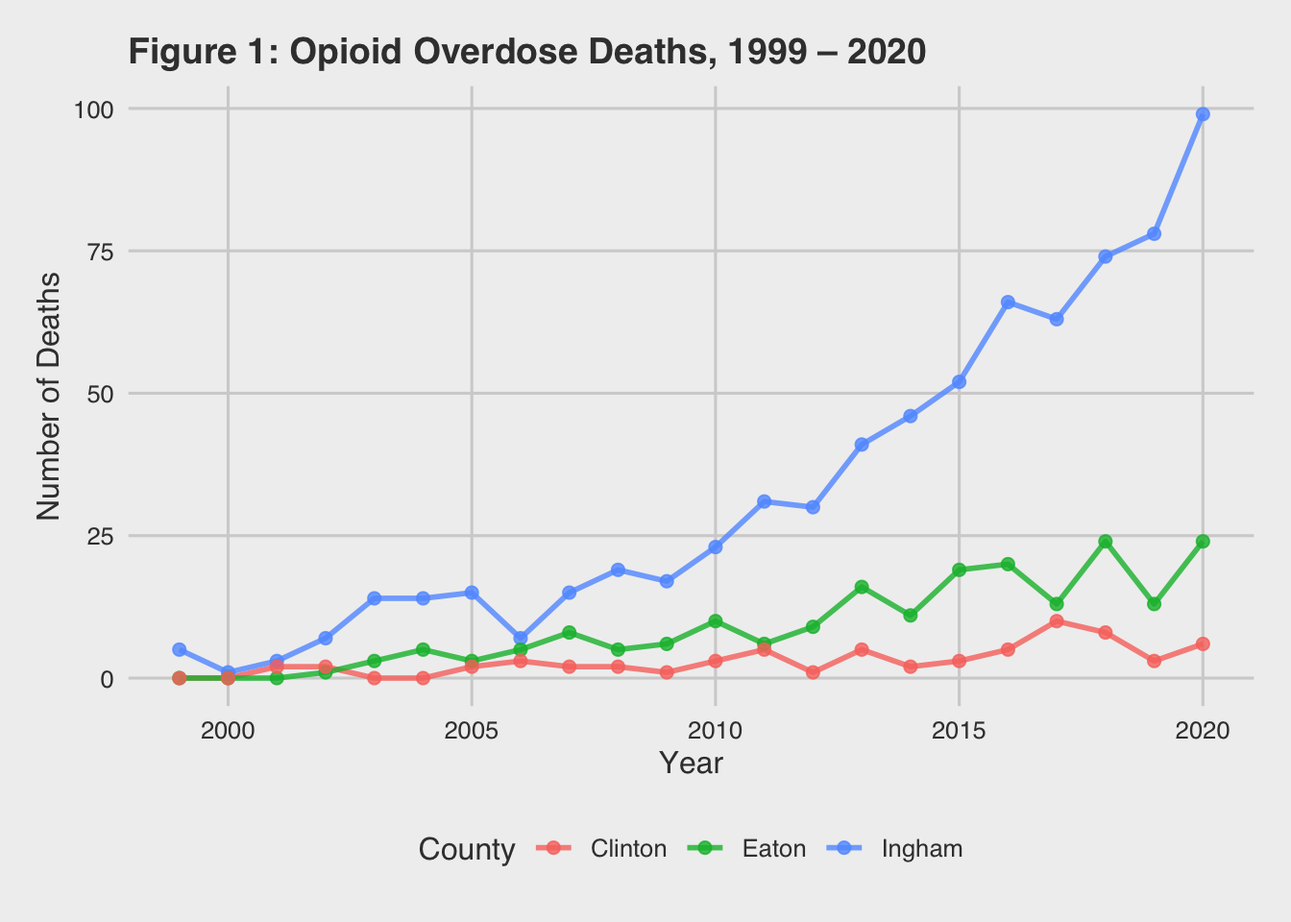
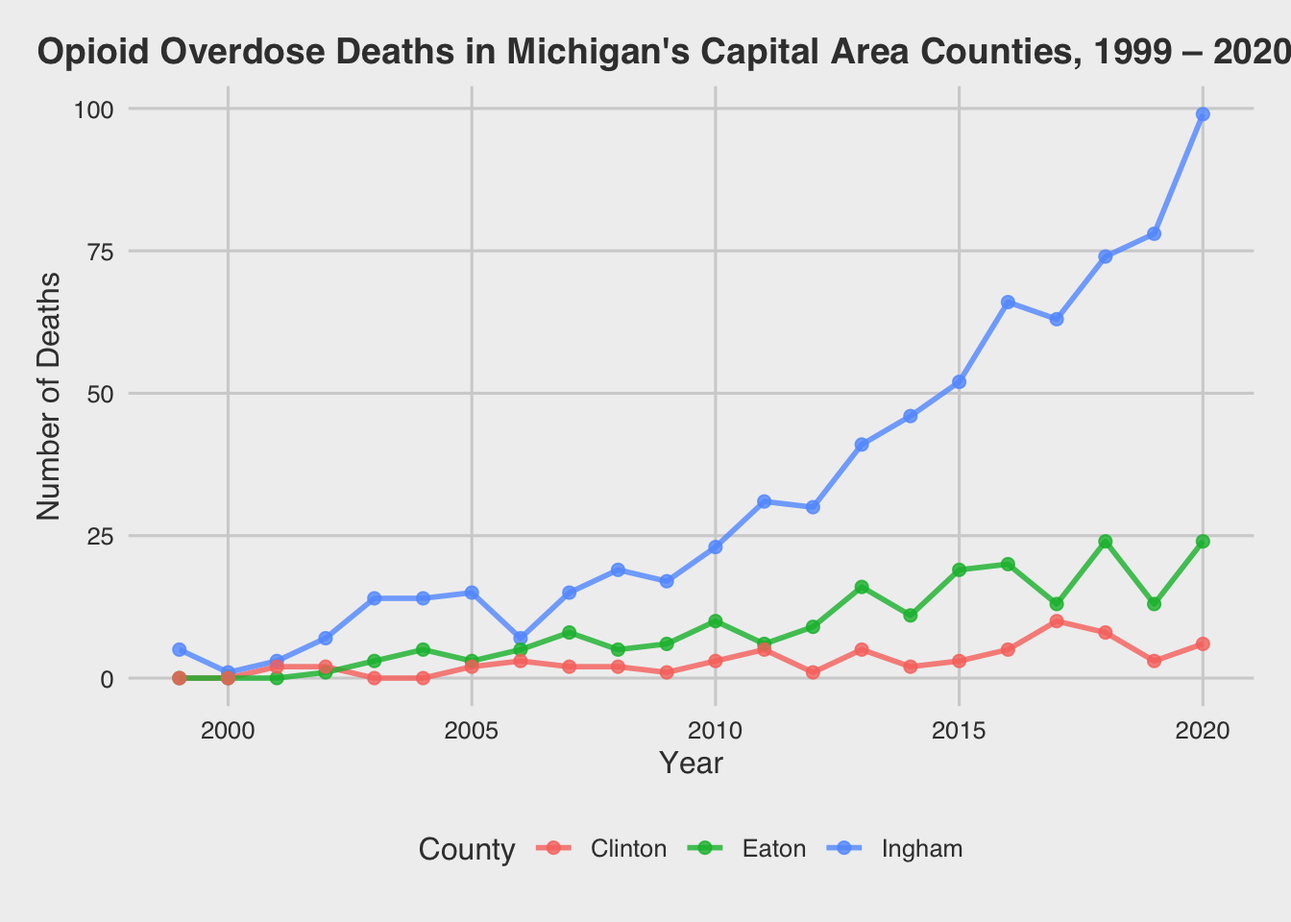
remove resume page

Changed region(s): [[0.0312, 0.0312, 1.0, 0.0938]]

diff --git a/_site/posts/opioid plotting practice/index.html b/_site/posts/opioid plotting practice/index.html
@@ -90,11 +90,8 @@ code span.wa { color: #60a0b0; font-weight: bold; font-style: italic; } /* Warni
 
 <script src="../../site_libs/quarto-nav/quarto-nav.js"></script>
 <script src="../../site_libs/quarto-nav/headroom.min.js"></script>
+<link href="../../cat96.png" rel="icon" type="image/png">
 <script src="../../site_libs/clipboard/clipboard.min.js"></script>
-<script src="../../site_libs/quarto-search/autocomplete.umd.js"></script>
-<script src="../../site_libs/quarto-search/fuse.min.js"></script>
-<script src="../../site_libs/quarto-search/quarto-search.js"></script>
-<meta name="quarto:offset" content="../../">
 <script src="../../site_libs/quarto-html/quarto.js"></script>
 <script src="../../site_libs/quarto-html/popper.min.js"></script>
 <script src="../../site_libs/quarto-html/tippy.umd.min.js"></script>
@@ -105,12 +102,6 @@ code span.wa { color: #60a0b0; font-weight: bold; font-style: italic; } /* Warni
 <link href="../../site_libs/bootstrap/bootstrap-icons.css" rel="stylesheet">
 <link href="../../site_libs/bootstrap/bootstrap.min.css" rel="stylesheet" id="quarto-bootstrap" data-mode="light">
 <script id="quarto-search-options" type="application/json">{
-  "location": "navbar",
-  "copy-button": false,
-  "collapse-after": 3,
-  "panel-placement": "end",
-  "type": "overlay",
-  "limit": 20,
   "language": {
     "search-no-results-text": "No results",
     "search-matching-documents-text": "matching documents",
@@ -143,6 +134,9 @@ code span.wa { color: #60a0b0; font-weight: bold; font-style: italic; } /* Warni
     <nav class="navbar navbar-expand-lg navbar-dark ">
       <div class="navbar-container container-fluid">
       <div class="navbar-brand-container">
+    <a href="../../index.html" class="navbar-brand navbar-brand-logo">
+    <img src="../../logo-cat.png" alt="" class="navbar-logo">
+    </a>
     <a class="navbar-brand" href="../../index.html">
     <span class="navbar-title">Brenden Smith</span>
     </a>
@@ -153,20 +147,15 @@ code span.wa { color: #60a0b0; font-weight: bold; font-style: italic; } /* Warni
           <div class="collapse navbar-collapse" id="navbarCollapse">
             <ul class="navbar-nav navbar-nav-scroll ms-auto">
   <li class="nav-item">
+    <a class="nav-link" href="../../index.html">About</a>
+  </li>  
+  <li class="nav-item">
+    <a class="nav-link" href="../../projects.html">Projects</a>
+  </li>  
+  <li class="nav-item">
     <a class="nav-link" href="../../blog.html">Blog</a>
   </li>  
-  <li class="nav-item compact">
-    <a class="nav-link" href="https://github.com/brendensm"><i class="bi bi-github" role="img">
-</i> 
- </a>
-  </li>  
-  <li class="nav-item compact">
-    <a class="nav-link" href="https://twitter.com/brendenmsmith"><i class="bi bi-twitter" role="img">
-</i> 
- </a>
-  </li>  
 </ul>
-              <div id="quarto-search" class="" title="Search"></div>
           </div> <!-- /navcollapse -->
       </div> <!-- /container-fluid -->
     </nav>
@@ -274,13 +263,13 @@ code span.wa { color: #60a0b0; font-weight: bold; font-style: italic; } /* Warni
 <p><img src="index_files/figure-html/unnamed-chunk-4-1.png" class="img-fluid" width="672"></p>
 </div>
 </div>
-<p>That looks a lot better! But we can do more. The lines look a bit skinny to me. I would like them to stand out more. It also might help to adjust the opacity of the lines. This can make points that cross over easier to read. To make these changes, we can specify <code>size</code> and <code>alpha</code> in <code>geom_line()</code> outside of the <code>aes()</code> argument.</p>
+<p>That looks a lot better! But we can do more. The lines look a bit skinny to me. I would like them to stand out more. It also might help to adjust the opacity of the lines. This can make points that cross over easier to read. To make these changes, we can specify <code>linewidth</code> and <code>alpha</code> in <code>geom_line()</code> outside of the <code>aes()</code> argument.</p>
 <p>I think it would be great to add points to our plot, too. Like the <code>geom_line()</code> layer, I want these to be large enough and overlap easily. I will pass through similar arguments in the <code>geom_point()</code> layer, also specifying the <code>color</code>.</p>
 <div class="cell">
 <div class="sourceCode cell-code" id="cb5"><pre class="sourceCode r code-with-copy"><code class="sourceCode r"><span id="cb5-1"><a href="#cb5-1" aria-hidden="true" tabindex="-1"></a>opdeaths <span class="sc">%&gt;%</span></span>
 <span id="cb5-2"><a href="#cb5-2" aria-hidden="true" tabindex="-1"></a>  <span class="fu">filter</span>(County <span class="sc">%in%</span> counties)  <span class="sc">%&gt;%</span></span>
 <span id="cb5-3"><a href="#cb5-3" aria-hidden="true" tabindex="-1"></a>  <span class="fu">ggplot</span>(<span class="fu">aes</span>(<span class="at">x =</span> Year, <span class="at">y =</span> <span class="st">`</span><span class="at">Opioids Overdose Deaths</span><span class="st">`</span>)) <span class="sc">+</span></span>
-<span id="cb5-4"><a href="#cb5-4" aria-hidden="true" tabindex="-1"></a>  <span class="fu">geom_line</span>(<span class="at">size =</span> <span class="dv">1</span>, <span class="at">alpha =</span> <span class="fl">0.8</span>, <span class="fu">aes</span>(<span class="at">color =</span> County)) <span class="sc">+</span></span>
+<span id="cb5-4"><a href="#cb5-4" aria-hidden="true" tabindex="-1"></a>  <span class="fu">geom_line</span>(<span class="at">linewidth =</span> <span class="dv">1</span>, <span class="at">alpha =</span> <span class="fl">0.8</span>, <span class="fu">aes</span>(<span class="at">color =</span> County)) <span class="sc">+</span></span>
 <span id="cb5-5"><a href="#cb5-5" aria-hidden="true" tabindex="-1"></a>  <span class="fu">geom_point</span>(<span class="at">size =</span> <span class="dv">2</span>, <span class="at">alpha =</span> <span class="fl">0.8</span>, <span class="fu">aes</span>(<span class="at">color =</span> County))</span></code><button title="Copy to Clipboard" class="code-copy-button"><i class="bi"></i></button></pre></div>
 <div class="cell-output-display">
 <p><img src="index_files/figure-html/unnamed-chunk-5-1.png" class="img-fluid" width="672"></p>
@@ -293,14 +282,15 @@ code span.wa { color: #60a0b0; font-weight: bold; font-style: italic; } /* Warni
 <div class="sourceCode cell-code" id="cb6"><pre class="sourceCode r code-with-copy"><code class="sourceCode r"><span id="cb6-1"><a href="#cb6-1" aria-hidden="true" tabindex="-1"></a>opdeaths <span class="sc">%&gt;%</span></span>
 <span id="cb6-2"><a href="#cb6-2" aria-hidden="true" tabindex="-1"></a>  <span class="fu">filter</span>(County <span class="sc">%in%</span> counties)  <span class="sc">%&gt;%</span></span>
 <span id="cb6-3"><a href="#cb6-3" aria-hidden="true" tabindex="-1"></a>  <span class="fu">ggplot</span>(<span class="fu">aes</span>(<span class="at">x =</span> Year, <span class="at">y =</span> <span class="st">`</span><span class="at">Opioids Overdose Deaths</span><span class="st">`</span>)) <span class="sc">+</span></span>
-<span id="cb6-4"><a href="#cb6-4" aria-hidden="true" tabindex="-1"></a>  <span class="fu">geom_line</span>(<span class="at">size =</span> <span class="dv">1</span>, <span class="at">alpha =</span> <span class="fl">0.8</span>, <span class="fu">aes</span>(<span class="at">color =</span> County)) <span class="sc">+</span></span>
+<span id="cb6-4"><a href="#cb6-4" aria-hidden="true" tabindex="-1"></a>  <span class="fu">geom_line</span>(<span class="at">linewidth =</span> <span class="dv">1</span>, <span class="at">alpha =</span> <span class="fl">0.8</span>, <span class="fu">aes</span>(<span class="at">color =</span> County)) <span class="sc">+</span></span>
 <span id="cb6-5"><a href="#cb6-5" aria-hidden="true" tabindex="-1"></a>  <span class="fu">geom_point</span>(<span class="at">size =</span> <span class="dv">2</span>, <span class="at">alpha =</span> <span class="fl">0.8</span>, <span class="fu">aes</span>(<span class="at">color =</span> County)) <span class="sc">+</span></span>
-<span id="cb6-6"><a href="#cb6-6" aria-hidden="true" tabindex="-1"></a>  <span class="fu">labs</span>(<span class="at">title =</span> <span class="st">"Figure 1: Opioid Overdose Deaths, 1999 – 2020"</span>,</span>
+<span id="cb6-6"><a href="#cb6-6" aria-hidden="true" tabindex="-1"></a>  <span class="fu">labs</span>(<span class="at">title =</span> <span class="st">"Opioid Overdose Deaths in Michigan's Capital Area Counties, 1999 – 2020"</span>,</span>
 <span id="cb6-7"><a href="#cb6-7" aria-hidden="true" tabindex="-1"></a>       <span class="at">x =</span> <span class="st">"Year"</span>,</span>
 <span id="cb6-8"><a href="#cb6-8" aria-hidden="true" tabindex="-1"></a>       <span class="at">y =</span> <span class="st">"Number of Deaths"</span>) <span class="sc">+</span></span>
 <span id="cb6-9"><a href="#cb6-9" aria-hidden="true" tabindex="-1"></a>  <span class="fu">theme_fivethirtyeight</span>() <span class="sc">+</span></span>
 <span id="cb6-10"><a href="#cb6-10" aria-hidden="true" tabindex="-1"></a>  <span class="fu">theme</span>(<span class="at">axis.title =</span> <span class="fu">element_text</span>(),</span>
-<span id="cb6-11"><a href="#cb6-11" aria-hidden="true" tabindex="-1"></a>        <span class="at">plot.title =</span> <span class="fu">element_text</span>(<span class="at">size =</span> <span class="dv">14</span>))</span></code><button title="Copy to Clipboard" class="code-copy-button"><i class="bi"></i></button></pre></div>
+<span id="cb6-11"><a href="#cb6-11" aria-hidden="true" tabindex="-1"></a>        <span class="at">plot.title =</span> <span class="fu">element_text</span>(<span class="at">size =</span> <span class="dv">14</span>),</span>
+<span id="cb6-12"><a href="#cb6-12" aria-hidden="true" tabindex="-1"></a>        <span class="at">plot.title.position =</span> <span class="st">"plot"</span>)</span></code><button title="Copy to Clipboard" class="code-copy-button"><i class="bi"></i></button></pre></div>
 <div class="cell-output-display">
 <p><img src="index_files/figure-html/unnamed-chunk-6-1.png" class="img-fluid" width="672"></p>
 </div>
@@ -314,19 +304,20 @@ code span.wa { color: #60a0b0; font-weight: bold; font-style: italic; } /* Warni
 <div class="sourceCode cell-code" id="cb7"><pre class="sourceCode r code-with-copy"><code class="sourceCode r"><span id="cb7-1"><a href="#cb7-1" aria-hidden="true" tabindex="-1"></a>p1 <span class="ot">&lt;-</span> opdeaths <span class="sc">%&gt;%</span></span>
 <span id="cb7-2"><a href="#cb7-2" aria-hidden="true" tabindex="-1"></a>  <span class="fu">filter</span>(County <span class="sc">%in%</span> counties)  <span class="sc">%&gt;%</span></span>
 <span id="cb7-3"><a href="#cb7-3" aria-hidden="true" tabindex="-1"></a>  <span class="fu">ggplot</span>(<span class="fu">aes</span>(<span class="at">x =</span> Year, <span class="at">y =</span> <span class="st">`</span><span class="at">Opioids Overdose Deaths</span><span class="st">`</span>)) <span class="sc">+</span></span>
-<span id="cb7-4"><a href="#cb7-4" aria-hidden="true" tabindex="-1"></a>  <span class="fu">geom_line</span>(<span class="at">size =</span> <span class="dv">1</span>, <span class="at">alpha =</span> <span class="fl">0.8</span>, <span class="fu">aes</span>(<span class="at">color =</span> County)) <span class="sc">+</span></span>
+<span id="cb7-4"><a href="#cb7-4" aria-hidden="true" tabindex="-1"></a>  <span class="fu">geom_line</span>(<span class="at">linewidth =</span> <span class="dv">1</span>, <span class="at">alpha =</span> <span class="fl">0.8</span>, <span class="fu">aes</span>(<span class="at">color =</span> County)) <span class="sc">+</span></span>
 <span id="cb7-5"><a href="#cb7-5" aria-hidden="true" tabindex="-1"></a>  <span class="fu">geom_point</span>(<span class="at">size =</span> <span class="dv">2</span>, <span class="at">alpha =</span> <span class="fl">0.8</span>, <span class="fu">aes</span>(<span class="at">color =</span> County)) <span class="sc">+</span></span>
-<span id="cb7-6"><a href="#cb7-6" aria-hidden="true" tabindex="-1"></a>  <span class="fu">labs</span>(<span class="at">title =</span> <span class="st">"Figure 1: Opioid Overdose Deaths, 1999 – 2020"</span>,</span>
+<span id="cb7-6"><a href="#cb7-6" aria-hidden="true" tabindex="-1"></a>  <span class="fu">labs</span>(<span class="at">title =</span> <span class="st">"Opioid Overdose Deaths in Michigan's Capital Area Counties, 1999 – 2020"</span>,</span>
 <span id="cb7-7"><a href="#cb7-7" aria-hidden="true" tabindex="-1"></a>       <span class="at">x =</span> <span class="st">"Year"</span>,</span>
 <span id="cb7-8"><a href="#cb7-8" aria-hidden="true" tabindex="-1"></a>       <span class="at">y =</span> <span class="st">"Number of Deaths"</span>) <span class="sc">+</span></span>
 <span id="cb7-9"><a href="#cb7-9" aria-hidden="true" tabindex="-1"></a>  <span class="fu">theme_fivethirtyeight</span>() <span class="sc">+</span></span>
 <span id="cb7-10"><a href="#cb7-10" aria-hidden="true" tabindex="-1"></a>  <span class="fu">theme</span>(<span class="at">axis.title =</span> <span class="fu">element_text</span>(),</span>
-<span id="cb7-11"><a href="#cb7-11" aria-hidden="true" tabindex="-1"></a>        <span class="at">plot.title =</span> <span class="fu">element_text</span>(<span class="at">size =</span> <span class="dv">14</span>))</span>
-<span id="cb7-12"><a href="#cb7-12" aria-hidden="true" tabindex="-1"></a></span>
-<span id="cb7-13"><a href="#cb7-13" aria-hidden="true" tabindex="-1"></a><span class="fu">ggplotly</span>(p1)</span></code><button title="Copy to Clipboard" class="code-copy-button"><i class="bi"></i></button></pre></div>
+<span id="cb7-11"><a href="#cb7-11" aria-hidden="true" tabindex="-1"></a>        <span class="at">plot.title =</span> <span class="fu">element_text</span>(<span class="at">size =</span> <span class="dv">14</span>),</span>
+<span id="cb7-12"><a href="#cb7-12" aria-hidden="true" tabindex="-1"></a>        <span class="at">plot.title.position =</span> <span class="st">"plot"</span>)</span>
+<span id="cb7-13"><a href="#cb7-13" aria-hidden="true" tabindex="-1"></a></span>
+<span id="cb7-14"><a href="#cb7-14" aria-hidden="true" tabindex="-1"></a><span class="fu">ggplotly</span>(p1)</span></code><button title="Copy to Clipboard" class="code-copy-button"><i class="bi"></i></button></pre></div>
 <div class="cell-output-display">
-<div id="htmlwidget-67dd60bb1c09bb6f7d05" style="width:100%;height:464px;" class="plotly html-widget"></div>
-<script type="application/json" data-for="htmlwidget-67dd60bb1c09bb6f7d05">{"x":{"data":[{"x":[1999,2000,2001,2002,2003,2004,2005,2006,2007,2008,2009,2010,2011,2012,2013,2014,2015,2016,2017,2018,2019,2020],"y":[0,0,2,2,0,0,2,3,2,2,1,3,5,1,5,2,3,5,10,8,3,6],"text":["Year: 1999<br />Opioids Overdose Deaths:  0<br />County: Clinton","Year: 2000<br />Opioids Overdose Deaths:  0<br />County: Clinton","Year: 2001<br />Opioids Overdose Deaths:  2<br />County: Clinton","Year: 2002<br />Opioids Overdose Deaths:  2<br />County: Clinton","Year: 2003<br />Opioids Overdose Deaths:  0<br />County: Clinton","Year: 2004<br />Opioids Overdose Deaths:  0<br />County: Clinton","Year: 2005<br />Opioids Overdose Deaths:  2<br />County: Clinton","Year: 2006<br />Opioids Overdose Deaths:  3<br />County: Clinton","Year: 2007<br />Opioids Overdose Deaths:  2<br />County: Clinton","Year: 2008<br />Opioids Overdose Deaths:  2<br />County: Clinton","Year: 2009<br />Opioids Overdose Deaths:  1<br />County: Clinton","Year: 2010<br />Opioids Overdose Deaths:  3<br />County: Clinton","Year: 2011<br />Opioids Overdose Deaths:  5<br />County: Clinton","Year: 2012<br />Opioids Overdose Deaths:  1<br />County: Clinton","Year: 2013<br />Opioids Overdose Deaths:  5<br />County: Clinton","Year: 2014<br />Opioids Overdose Deaths:  2<br />County: Clinton","Year: 2015<br />Opioids Overdose Deaths:  3<br />County: Clinton","Year: 2016<br />Opioids Overdose Deaths:  5<br />County: Clinton","Year: 2017<br />Opioids Overdose Deaths: 10<br />County: Clinton","Year: 2018<br />Opioids Overdose Deaths:  8<br />County: Clinton","Year: 2019<br />Opioids Overdose Deaths:  3<br />County: Clinton","Year: 2020<br />Opioids Overdose Deaths:  6<br />County: Clinton"],"type":"scatter","mode":"lines+markers","line":{"width":3.77952755905512,"color":"rgba(248,118,109,0.8)","dash":"solid"},"hoveron":"points","name":"Clinton","legendgroup":"Clinton","showlegend":true,"xaxis":"x","yaxis":"y","hoverinfo":"text","marker":{"autocolorscale":false,"color":"rgba(248,118,109,1)","opacity":0.8,"size":7.55905511811024,"symbol":"circle","line":{"width":1.88976377952756,"color":"rgba(248,118,109,1)"}},"frame":null},{"x":[1999,2000,2001,2002,2003,2004,2005,2006,2007,2008,2009,2010,2011,2012,2013,2014,2015,2016,2017,2018,2019,2020],"y":[0,0,0,1,3,5,3,5,8,5,6,10,6,9,16,11,19,20,13,24,13,24],"text":["Year: 1999<br />Opioids Overdose Deaths:  0<br />County: Eaton","Year: 2000<br />Opioids Overdose Deaths:  0<br />County: Eaton","Year: 2001<br />Opioids Overdose Deaths:  0<br />County: Eaton","Year: 2002<br />Opioids Overdose Deaths:  1<br />County: Eaton","Year: 2003<br />Opioids Overdose Deaths:  3<br />County: Eaton","Year: 2004<br />Opioids Overdose Deaths:  5<br />County: Eaton","Year: 2005<br />Opioids Overdose Deaths:  3<br />County: Eaton","Year: 2006<br />Opioids Overdose Deaths:  5<br />County: Eaton","Year: 2007<br />Opioids Overdose Deaths:  8<br />County: Eaton","Year: 2008<br />Opioids Overdose Deaths:  5<br />County: Eaton","Year: 2009<br />Opioids Overdose Deaths:  6<br />County: Eaton","Year: 2010<br />Opioids Overdose Deaths: 10<br />County: Eaton","Year: 2011<br />Opioids Overdose Deaths:  6<br />County: Eaton","Year: 2012<br />Opioids Overdose Deaths:  9<br />County: Eaton","Year: 2013<br />Opioids Overdose Deaths: 16<br />County: Eaton","Year: 2014<br />Opioids Overdose Deaths: 11<br />County: Eaton","Year: 2015<br />Opioids Overdose Deaths: 19<br />County: Eaton","Year: 2016<br />Opioids Overdose Deaths: 20<br />County: Eaton","Year: 2017<br />Opioids Overdose Deaths: 13<br />County: Eaton","Year: 2018<br />Opioids Overdose Deaths: 24<br />County: Eaton","Year: 2019<br />Opioids Overdose Deaths: 13<br />County: Eaton","Year: 2020<br />Opioids Overdose Deaths: 24<br />County: Eaton"],"type":"scatter","mode":"lines+markers","line":{"width":3.77952755905512,"color":"rgba(0,186,56,0.8)","dash":"solid"},"hoveron":"points","name":"Eaton","legendgroup":"Eaton","showlegend":true,"xaxis":"x","yaxis":"y","hoverinfo":"text","marker":{"autocolorscale":false,"color":"rgba(0,186,56,1)","opacity":0.8,"size":7.55905511811024,"symbol":"circle","line":{"width":1.88976377952756,"color":"rgba(0,186,56,1)"}},"frame":null},{"x":[1999,2000,2001,2002,2003,2004,2005,2006,2007,2008,2009,2010,2011,2012,2013,2014,2015,2016,2017,2018,2019,2020],"y":[5,1,3,7,14,14,15,7,15,19,17,23,31,30,41,46,52,66,63,74,78,99],"text":["Year: 1999<br />Opioids Overdose Deaths:  5<br />County: Ingham","Year: 2000<br />Opioids Overdose Deaths:  1<br />County: Ingham","Year: 2001<br />Opioids Overdose Deaths:  3<br />County: Ingham","Year: 2002<br />Opioids Overdose Deaths:  7<br />County: Ingham","Year: 2003<br />Opioids Overdose Deaths: 14<br />County: Ingham","Year: 2004<br />Opioids Overdose Deaths: 14<br />County: Ingham","Year: 2005<br />Opioids Overdose Deaths: 15<br />County: Ingham","Year: 2006<br />Opioids Overdose Deaths:  7<br />County: Ingham","Year: 2007<br />Opioids Overdose Deaths: 15<br />County: Ingham","Year: 2008<br />Opioids Overdose Deaths: 19<br />County: Ingham","Year: 2009<br />Opioids Overdose Deaths: 17<br />County: Ingham","Year: 2010<br />Opioids Overdose Deaths: 23<br />County: Ingham","Year: 2011<br />Opioids Overdose Deaths: 31<br />County: Ingham","Year: 2012<br />Opioids Overdose Deaths: 30<br />County: Ingham","Year: 2013<br />Opioids Overdose Deaths: 41<br />County: Ingham","Year: 2014<br />Opioids Overdose Deaths: 46<br />County: Ingham","Year: 2015<br />Opioids Overdose Deaths: 52<br />County: Ingham","Year: 2016<br />Opioids Overdose Deaths: 66<br />County: Ingham","Year: 2017<br />Opioids Overdose Deaths: 63<br />County: Ingham","Year: 2018<br />Opioids Overdose Deaths: 74<br />County: Ingham","Year: 2019<br />Opioids Overdose Deaths: 78<br />County: Ingham","Year: 2020<br />Opioids Overdose Deaths: 99<br />County: Ingham"],"type":"scatter","mode":"lines+markers","line":{"width":3.77952755905512,"color":"rgba(97,156,255,0.8)","dash":"solid"},"hoveron":"points","name":"Ingham","legendgroup":"Ingham","showlegend":true,"xaxis":"x","yaxis":"y","hoverinfo":"text","marker":{"autocolorscale":false,"color":"rgba(97,156,255,1)","opacity":0.8,"size":7.55905511811024,"symbol":"circle","line":{"width":1.88976377952756,"color":"rgba(97,156,255,1)"}},"frame":null}],"layout":{"margin":{"t":53.7969281859693,"r":19.2,"b":51.8774595267746,"l":58.2535491905355},"plot_bgcolor":"rgba(240,240,240,1)","paper_bgcolor":"rgba(240,240,240,1)","font":{"color":"rgba(60,60,60,1)","family":"sans","size":15.9402241594022},"title":{"text":"<b> Figure 1: Opioid Overdose Deaths, 1999 – 2020 <\/b>","font":{"color":"rgba(60,60,60,1)","family":"sans","size":18.5969281859693},"x":0,"xref":"paper"},"xaxis":{"domain":[0,1],"automargin":true,"type":"linear","autorange":false,"range":[1997.95,2021.05],"tickmode":"array","ticktext":["2000","2005","2010","2015","2020"],"tickvals":[2000,2005,2010,2015,2020],"categoryorder":"array","categoryarray":["2000","2005","2010","2015","2020"],"nticks":null,"ticks":"","tickcolor":null,"ticklen":3.98505603985056,"tickwidth":0,"showticklabels":true,"tickfont":{"color":"rgba(60,60,60,1)","family":"sans","size":12.7521793275218},"tickangle":-0,"showline":false,"linecolor":null,"linewidth":0,"showgrid":true,"gridcolor":"rgba(210,210,210,1)","gridwidth":0.724555643609193,"zeroline":false,"anchor":"y","title":{"text":"Year","font":{"color":"rgba(60,60,60,1)","family":"sans","size":15.9402241594022}},"hoverformat":".2f"},"yaxis":{"domain":[0,1],"automargin":true,"type":"linear","autorange":false,"range":[-4.95,103.95],"tickmode":"array","ticktext":["0","25","50","75","100"],"tickvals":[0,25,50,75,100],"categoryorder":"array","categoryarray":["0","25","50","75","100"],"nticks":null,"ticks":"","tickcolor":null,"ticklen":3.98505603985056,"tickwidth":0,"showticklabels":true,"tickfont":{"color":"rgba(60,60,60,1)","family":"sans","size":12.7521793275218},"tickangle":-0,"showline":false,"linecolor":null,"linewidth":0,"showgrid":true,"gridcolor":"rgba(210,210,210,1)","gridwidth":0.724555643609193,"zeroline":false,"anchor":"x","title":{"text":"Number of Deaths","font":{"color":"rgba(60,60,60,1)","family":"sans","size":15.9402241594022}},"hoverformat":".2f"},"shapes":[{"type":"rect","fillcolor":"transparent","line":{"color":"transparent","width":0.724555643609193,"linetype":"none"},"yref":"paper","xref":"paper","x0":0,"x1":1,"y0":0,"y1":1}],"showlegend":true,"legend":{"bgcolor":"rgba(240,240,240,1)","bordercolor":"transparent","borderwidth":2.06156048675734,"font":{"color":"rgba(60,60,60,1)","family":"sans","size":12.7521793275218},"title":{"text":"County","font":{"color":"rgba(60,60,60,1)","family":"sans","size":15.9402241594022}}},"hovermode":"closest","barmode":"relative"},"config":{"doubleClick":"reset","modeBarButtonsToAdd":["hoverclosest","hovercompare"],"showSendToCloud":false},"source":"A","attrs":{"42e3663857e8":{"x":{},"y":{},"colour":{},"type":"scatter"},"42e37d1374c5":{"x":{},"y":{},"colour":{}}},"cur_data":"42e3663857e8","visdat":{"42e3663857e8":["function (y) ","x"],"42e37d1374c5":["function (y) ","x"]},"highlight":{"on":"plotly_click","persistent":false,"dynamic":false,"selectize":false,"opacityDim":0.2,"selected":{"opacity":1},"debounce":0},"shinyEvents":["plotly_hover","plotly_click","plotly_selected","plotly_relayout","plotly_brushed","plotly_brushing","plotly_clickannotation","plotly_doubleclick","plotly_deselect","plotly_afterplot","plotly_sunburstclick"],"base_url":"https://plot.ly"},"evals":[],"jsHooks":[]}</script>
+<div id="htmlwidget-161fd81e82e4ffd3d647" style="width:100%;height:464px;" class="plotly html-widget"></div>
+<script type="application/json" data-for="htmlwidget-161fd81e82e4ffd3d647">{"x":{"data":[{"x":[1999,2000,2001,2002,2003,2004,2005,2006,2007,2008,2009,2010,2011,2012,2013,2014,2015,2016,2017,2018,2019,2020],"y":[0,0,2,2,0,0,2,3,2,2,1,3,5,1,5,2,3,5,10,8,3,6],"text":["Year: 1999<br />Opioids Overdose Deaths:  0<br />County: Clinton","Year: 2000<br />Opioids Overdose Deaths:  0<br />County: Clinton","Year: 2001<br />Opioids Overdose Deaths:  2<br />County: Clinton","Year: 2002<br />Opioids Overdose Deaths:  2<br />County: Clinton","Year: 2003<br />Opioids Overdose Deaths:  0<br />County: Clinton","Year: 2004<br />Opioids Overdose Deaths:  0<br />County: Clinton","Year: 2005<br />Opioids Overdose Deaths:  2<br />County: Clinton","Year: 2006<br />Opioids Overdose Deaths:  3<br />County: Clinton","Year: 2007<br />Opioids Overdose Deaths:  2<br />County: Clinton","Year: 2008<br />Opioids Overdose Deaths:  2<br />County: Clinton","Year: 2009<br />Opioids Overdose Deaths:  1<br />County: Clinton","Year: 2010<br />Opioids Overdose Deaths:  3<br />County: Clinton","Year: 2011<br />Opioids Overdose Deaths:  5<br />County: Clinton","Year: 2012<br />Opioids Overdose Deaths:  1<br />County: Clinton","Year: 2013<br />Opioids Overdose Deaths:  5<br />County: Clinton","Year: 2014<br />Opioids Overdose Deaths:  2<br />County: Clinton","Year: 2015<br />Opioids Overdose Deaths:  3<br />County: Clinton","Year: 2016<br />Opioids Overdose Deaths:  5<br />County: Clinton","Year: 2017<br />Opioids Overdose Deaths: 10<br />County: Clinton","Year: 2018<br />Opioids Overdose Deaths:  8<br />County: Clinton","Year: 2019<br />Opioids Overdose Deaths:  3<br />County: Clinton","Year: 2020<br />Opioids Overdose Deaths:  6<br />County: Clinton"],"type":"scatter","mode":"lines+markers","line":{"width":null,"color":"rgba(248,118,109,0.8)","dash":"solid"},"hoveron":"points","name":"Clinton","legendgroup":"Clinton","showlegend":true,"xaxis":"x","yaxis":"y","hoverinfo":"text","marker":{"autocolorscale":false,"color":"rgba(248,118,109,1)","opacity":0.8,"size":7.55905511811024,"symbol":"circle","line":{"width":1.88976377952756,"color":"rgba(248,118,109,1)"}},"frame":null},{"x":[1999,2000,2001,2002,2003,2004,2005,2006,2007,2008,2009,2010,2011,2012,2013,2014,2015,2016,2017,2018,2019,2020],"y":[0,0,0,1,3,5,3,5,8,5,6,10,6,9,16,11,19,20,13,24,13,24],"text":["Year: 1999<br />Opioids Overdose Deaths:  0<br />County: Eaton","Year: 2000<br />Opioids Overdose Deaths:  0<br />County: Eaton","Year: 2001<br />Opioids Overdose Deaths:  0<br />County: Eaton","Year: 2002<br />Opioids Overdose Deaths:  1<br />County: Eaton","Year: 2003<br />Opioids Overdose Deaths:  3<br />County: Eaton","Year: 2004<br />Opioids Overdose Deaths:  5<br />County: Eaton","Year: 2005<br />Opioids Overdose Deaths:  3<br />County: Eaton","Year: 2006<br />Opioids Overdose Deaths:  5<br />County: Eaton","Year: 2007<br />Opioids Overdose Deaths:  8<br />County: Eaton","Year: 2008<br />Opioids Overdose Deaths:  5<br />County: Eaton","Year: 2009<br />Opioids Overdose Deaths:  6<br />County: Eaton","Year: 2010<br />Opioids Overdose Deaths: 10<br />County: Eaton","Year: 2011<br />Opioids Overdose Deaths:  6<br />County: Eaton","Year: 2012<br />Opioids Overdose Deaths:  9<br />County: Eaton","Year: 2013<br />Opioids Overdose Deaths: 16<br />County: Eaton","Year: 2014<br />Opioids Overdose Deaths: 11<br />County: Eaton","Year: 2015<br />Opioids Overdose Deaths: 19<br />County: Eaton","Year: 2016<br />Opioids Overdose Deaths: 20<br />County: Eaton","Year: 2017<br />Opioids Overdose Deaths: 13<br />County: Eaton","Year: 2018<br />Opioids Overdose Deaths: 24<br />County: Eaton","Year: 2019<br />Opioids Overdose Deaths: 13<br />County: Eaton","Year: 2020<br />Opioids Overdose Deaths: 24<br />County: Eaton"],"type":"scatter","mode":"lines+markers","line":{"width":null,"color":"rgba(0,186,56,0.8)","dash":"solid"},"hoveron":"points","name":"Eaton","legendgroup":"Eaton","showlegend":true,"xaxis":"x","yaxis":"y","hoverinfo":"text","marker":{"autocolorscale":false,"color":"rgba(0,186,56,1)","opacity":0.8,"size":7.55905511811024,"symbol":"circle","line":{"width":1.88976377952756,"color":"rgba(0,186,56,1)"}},"frame":null},{"x":[1999,2000,2001,2002,2003,2004,2005,2006,2007,2008,2009,2010,2011,2012,2013,2014,2015,2016,2017,2018,2019,2020],"y":[5,1,3,7,14,14,15,7,15,19,17,23,31,30,41,46,52,66,63,74,78,99],"text":["Year: 1999<br />Opioids Overdose Deaths:  5<br />County: Ingham","Year: 2000<br />Opioids Overdose Deaths:  1<br />County: Ingham","Year: 2001<br />Opioids Overdose Deaths:  3<br />County: Ingham","Year: 2002<br />Opioids Overdose Deaths:  7<br />County: Ingham","Year: 2003<br />Opioids Overdose Deaths: 14<br />County: Ingham","Year: 2004<br />Opioids Overdose Deaths: 14<br />County: Ingham","Year: 2005<br />Opioids Overdose Deaths: 15<br />County: Ingham","Year: 2006<br />Opioids Overdose Deaths:  7<br />County: Ingham","Year: 2007<br />Opioids Overdose Deaths: 15<br />County: Ingham","Year: 2008<br />Opioids Overdose Deaths: 19<br />County: Ingham","Year: 2009<br />Opioids Overdose Deaths: 17<br />County: Ingham","Year: 2010<br />Opioids Overdose Deaths: 23<br />County: Ingham","Year: 2011<br />Opioids Overdose Deaths: 31<br />County: Ingham","Year: 2012<br />Opioids Overdose Deaths: 30<br />County: Ingham","Year: 2013<br />Opioids Overdose Deaths: 41<br />County: Ingham","Year: 2014<br />Opioids Overdose Deaths: 46<br />County: Ingham","Year: 2015<br />Opioids Overdose Deaths: 52<br />County: Ingham","Year: 2016<br />Opioids Overdose Deaths: 66<br />County: Ingham","Year: 2017<br />Opioids Overdose Deaths: 63<br />County: Ingham","Year: 2018<br />Opioids Overdose Deaths: 74<br />County: Ingham","Year: 2019<br />Opioids Overdose Deaths: 78<br />County: Ingham","Year: 2020<br />Opioids Overdose Deaths: 99<br />County: Ingham"],"type":"scatter","mode":"lines+markers","line":{"width":null,"color":"rgba(97,156,255,0.8)","dash":"solid"},"hoveron":"points","name":"Ingham","legendgroup":"Ingham","showlegend":true,"xaxis":"x","yaxis":"y","hoverinfo":"text","marker":{"autocolorscale":false,"color":"rgba(97,156,255,1)","opacity":0.8,"size":7.55905511811024,"symbol":"circle","line":{"width":1.88976377952756,"color":"rgba(97,156,255,1)"}},"frame":null}],"layout":{"margin":{"t":53.7969281859693,"r":19.2,"b":51.8774595267746,"l":58.2535491905355},"plot_bgcolor":"rgba(240,240,240,1)","paper_bgcolor":"rgba(240,240,240,1)","font":{"color":"rgba(60,60,60,1)","family":"sans","size":15.9402241594022},"title":{"text":"<b> Opioid Overdose Deaths in Michigan's Capital Area Counties, 1999 – 2020 <\/b>","font":{"color":"rgba(60,60,60,1)","family":"sans","size":18.5969281859693},"x":0,"xref":"paper"},"xaxis":{"domain":[0,1],"automargin":true,"type":"linear","autorange":false,"range":[1997.95,2021.05],"tickmode":"array","ticktext":["2000","2005","2010","2015","2020"],"tickvals":[2000,2005,2010,2015,2020],"categoryorder":"array","categoryarray":["2000","2005","2010","2015","2020"],"nticks":null,"ticks":"","tickcolor":null,"ticklen":3.98505603985056,"tickwidth":0,"showticklabels":true,"tickfont":{"color":"rgba(60,60,60,1)","family":"sans","size":12.7521793275218},"tickangle":-0,"showline":false,"linecolor":null,"linewidth":0,"showgrid":true,"gridcolor":"rgba(210,210,210,1)","gridwidth":0,"zeroline":false,"anchor":"y","title":{"text":"Year","font":{"color":"rgba(60,60,60,1)","family":"sans","size":15.9402241594022}},"hoverformat":".2f"},"yaxis":{"domain":[0,1],"automargin":true,"type":"linear","autorange":false,"range":[-4.95,103.95],"tickmode":"array","ticktext":["0","25","50","75","100"],"tickvals":[0,25,50,75,100],"categoryorder":"array","categoryarray":["0","25","50","75","100"],"nticks":null,"ticks":"","tickcolor":null,"ticklen":3.98505603985056,"tickwidth":0,"showticklabels":true,"tickfont":{"color":"rgba(60,60,60,1)","family":"sans","size":12.7521793275218},"tickangle":-0,"showline":false,"linecolor":null,"linewidth":0,"showgrid":true,"gridcolor":"rgba(210,210,210,1)","gridwidth":0,"zeroline":false,"anchor":"x","title":{"text":"Number of Deaths","font":{"color":"rgba(60,60,60,1)","family":"sans","size":15.9402241594022}},"hoverformat":".2f"},"shapes":[{"type":"rect","fillcolor":"transparent","line":{"color":"transparent","width":0,"linetype":"none"},"yref":"paper","xref":"paper","x0":0,"x1":1,"y0":0,"y1":1}],"showlegend":true,"legend":{"bgcolor":"rgba(240,240,240,1)","bordercolor":"transparent","borderwidth":0,"font":{"color":"rgba(60,60,60,1)","family":"sans","size":12.7521793275218},"title":{"text":"County","font":{"color":"rgba(60,60,60,1)","family":"sans","size":15.9402241594022}}},"hovermode":"closest","barmode":"relative"},"config":{"doubleClick":"reset","modeBarButtonsToAdd":["hoverclosest","hovercompare"],"showSendToCloud":false},"source":"A","attrs":{"346f63de85a4":{"x":{},"y":{},"colour":{},"type":"scatter"},"346f26180535":{"x":{},"y":{},"colour":{}}},"cur_data":"346f63de85a4","visdat":{"346f63de85a4":["function (y) ","x"],"346f26180535":["function (y) ","x"]},"highlight":{"on":"plotly_click","persistent":false,"dynamic":false,"selectize":false,"opacityDim":0.2,"selected":{"opacity":1},"debounce":0},"shinyEvents":["plotly_hover","plotly_click","plotly_selected","plotly_relayout","plotly_brushed","plotly_brushing","plotly_clickannotation","plotly_doubleclick","plotly_deselect","plotly_afterplot","plotly_sunburstclick"],"base_url":"https://plot.ly"},"evals":[],"jsHooks":[]}</script>
 </div>
 </div>
 <p>It’s amazing how quickly you can produce interactive charts with R! The output from this function in an html widget. So it can easily be viewed on a website or a local html file. This makes it ideal for sharing graphics quickly among coworkers.</p>
@@ -434,6 +425,8 @@ window.document.addEventListener("DOMContentLoaded", function (event) {
     });
   }
 });
+</script>
+<script src="https://utteranc.es/client.js" repo="brendensm/blogComments" issue-term="pathname" theme="github-light" crossorigin="anonymous" async="">
 </script>
 </div> <!-- /content -->
 

diff --git a/_site/posts/Survival Analysis/index.html b/_site/posts/Survival Analysis/index.html
@@ -91,12 +91,8 @@ code span.wa { color: #60a0b0; font-weight: bold; font-style: italic; } /* Warni
 
 <script src="../../site_libs/quarto-nav/quarto-nav.js"></script>
 <script src="../../site_libs/quarto-nav/headroom.min.js"></script>
-<script src="../../site_libs/clipboard/clipboard.min.js"></script>
-<script src="../../site_libs/quarto-search/autocomplete.umd.js"></script>
-<script src="../../site_libs/quarto-search/fuse.min.js"></script>
-<script src="../../site_libs/quarto-search/quarto-search.js"></script>
-<meta name="quarto:offset" content="../../">
 <link href="../../cat96.png" rel="icon" type="image/png">
+<script src="../../site_libs/clipboard/clipboard.min.js"></script>
 <script src="../../site_libs/quarto-html/quarto.js"></script>
 <script src="../../site_libs/quarto-html/popper.min.js"></script>
 <script src="../../site_libs/quarto-html/tippy.umd.min.js"></script>
@@ -107,12 +103,6 @@ code span.wa { color: #60a0b0; font-weight: bold; font-style: italic; } /* Warni
 <link href="../../site_libs/bootstrap/bootstrap-icons.css" rel="stylesheet">
 <link href="../../site_libs/bootstrap/bootstrap.min.css" rel="stylesheet" id="quarto-bootstrap" data-mode="light">
 <script id="quarto-search-options" type="application/json">{
-  "location": "navbar",
-  "copy-button": false,
-  "collapse-after": 3,
-  "panel-placement": "end",
-  "type": "overlay",
-  "limit": 20,
   "language": {
     "search-no-results-text": "No results",
     "search-matching-documents-text": "matching documents",
@@ -137,6 +127,9 @@ code span.wa { color: #60a0b0; font-weight: bold; font-style: italic; } /* Warni
     <nav class="navbar navbar-expand-lg navbar-dark ">
       <div class="navbar-container container-fluid">
       <div class="navbar-brand-container">
+    <a href="../../index.html" class="navbar-brand navbar-brand-logo">
+    <img src="../../logo-cat.png" alt="" class="navbar-logo">
+    </a>
     <a class="navbar-brand" href="../../index.html">
     <span class="navbar-title">Brenden Smith</span>
     </a>
@@ -147,25 +140,15 @@ code span.wa { color: #60a0b0; font-weight: bold; font-style: italic; } /* Warni
           <div class="collapse navbar-collapse" id="navbarCollapse">
             <ul class="navbar-nav navbar-nav-scroll ms-auto">
   <li class="nav-item">
+    <a class="nav-link" href="../../index.html">About</a>
+  </li>  
+  <li class="nav-item">
+    <a class="nav-link" href="../../projects.html">Projects</a>
+  </li>  
+  <li class="nav-item">
     <a class="nav-link" href="../../blog.html">Blog</a>
   </li>  
-  <li class="nav-item compact">
-    <a class="nav-link" href="https://github.com/brendensm"><i class="bi bi-github" role="img">
-</i> 
- </a>
-  </li>  
-  <li class="nav-item compact">
-    <a class="nav-link" href="https://twitter.com/brendenmsmith"><i class="bi bi-twitter" role="img">
-</i> 
- </a>
-  </li>  
-  <li class="nav-item compact">
-    <a class="nav-link" href="https://linkedin.com"><i class="bi bi-linkedin" role="img">
-</i> 
- </a>
-  </li>  
 </ul>
-              <div id="quarto-search" class="" title="Search"></div>
           </div> <!-- /navcollapse -->
       </div> <!-- /container-fluid -->
     </nav>

diff --git a/_site/projects.html b/_site/projects.html
@@ -109,9 +109,6 @@ ul.task-list li input[type="checkbox"] {
     <a class="nav-link" href="./index.html">About</a>
   </li>  
   <li class="nav-item">
-    <a class="nav-link" href="./resume.html">Resume</a>
-  </li>  
-  <li class="nav-item">
     <a class="nav-link active" href="./projects.html" aria-current="page">Projects</a>
   </li>  
   <li class="nav-item">
@@ -152,11 +149,11 @@ ul.task-list li input[type="checkbox"] {
 
 <div class="quarto-listing quarto-listing-container-grid" id="listing-listing">
 <div class="list grid quarto-listing-cols-3">
-<div class="g-col-1" data-index="0" data-listing-date-sort="1670648400000" data-listing-file-modified-sort="1670734657013" data-listing-reading-time-sort="0.875">
+<div class="g-col-1" data-index="0" data-listing-date-sort="1670648400000" data-listing-file-modified-sort="1673148185999" data-listing-reading-time-sort="0.875">
 <a href="./projects/Michigan COVID-19 Dashboard/index.html" class="quarto-grid-link">
 <div class="quarto-grid-item card h-100 card-left">
 <p class="card-img-top">
-<img src="./projects/Michigan COVID-19 Dashboard/dash.png" class="thumbnail-image card-img" style="height: 416px;">
+<img src="./projects/Michigan COVID-19 Dashboard/bi.jpeg" class="thumbnail-image card-img" style="height: 150px;">
 </p>
 <div class="card-body post-contents">
 <h5 class="no-anchor card-title listing-title">
@@ -177,11 +174,11 @@ Dec 10, 2022
 </div>
 </a>
 </div>
-<div class="g-col-1" data-index="1" data-listing-date-sort="1668402000000" data-listing-file-modified-sort="1670736130385" data-listing-reading-time-sort="0.005">
+<div class="g-col-1" data-index="1" data-listing-date-sort="1668402000000" data-listing-file-modified-sort="1673148170278" data-listing-reading-time-sort="0.005">
 <a href="./projects/Mental Health and the Pandemic/index.html" class="quarto-grid-link">
 <div class="quarto-grid-item card h-100 card-left">
 <p class="card-img-top">
-<img src="./projects/Mental Health and the Pandemic/shiny.png" class="thumbnail-image card-img" style="height: 416px;">
+<img src="./projects/Mental Health and the Pandemic/shiny.jpeg" class="thumbnail-image card-img" style="height: 150px;">
 </p>
 <div class="card-body post-contents">
 <h5 class="no-anchor card-title listing-title">

diff --git a/_site/index.html b/_site/index.html
@@ -76,9 +76,6 @@ ul.task-list li input[type="checkbox"] {
     <a class="nav-link active" href="./index.html" aria-current="page">About</a>
   </li>  
   <li class="nav-item">
-    <a class="nav-link" href="./resume.html">Resume</a>
-  </li>  
-  <li class="nav-item">
     <a class="nav-link" href="./projects.html">Projects</a>
   </li>  
   <li class="nav-item">

diff --git a/_site/projects/Mental Health and the Pandemic/index.html b/_site/projects/Mental Health and the Pandemic/index.html
@@ -80,9 +80,6 @@ ul.task-list li input[type="checkbox"] {
     <a class="nav-link" href="../../index.html">About</a>
   </li>  
   <li class="nav-item">
-    <a class="nav-link" href="../../resume.html">Resume</a>
-  </li>  
-  <li class="nav-item">
     <a class="nav-link" href="../../projects.html">Projects</a>
   </li>  
   <li class="nav-item">

diff --git a/_site/blog.html b/_site/blog.html
@@ -109,9 +109,6 @@ ul.task-list li input[type="checkbox"] {
     <a class="nav-link" href="./index.html">About</a>
   </li>  
   <li class="nav-item">
-    <a class="nav-link" href="./resume.html">Resume</a>
-  </li>  
-  <li class="nav-item">
     <a class="nav-link" href="./projects.html">Projects</a>
   </li>  
   <li class="nav-item">
